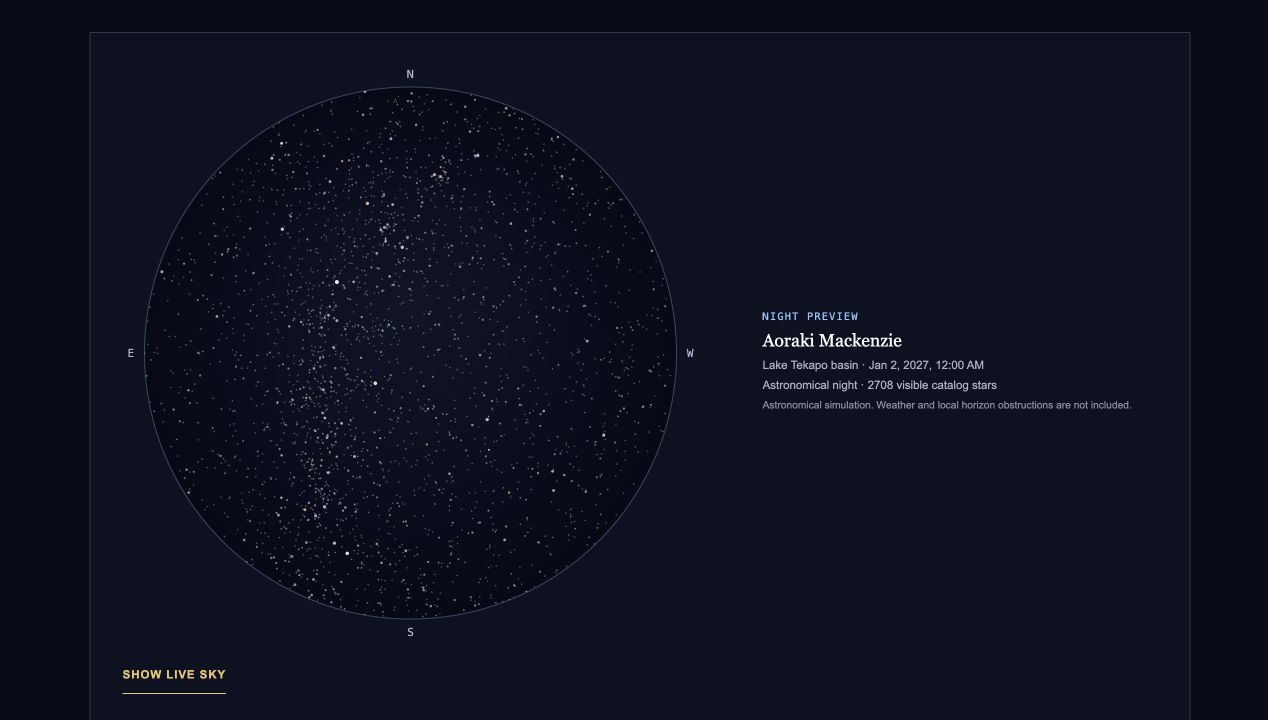
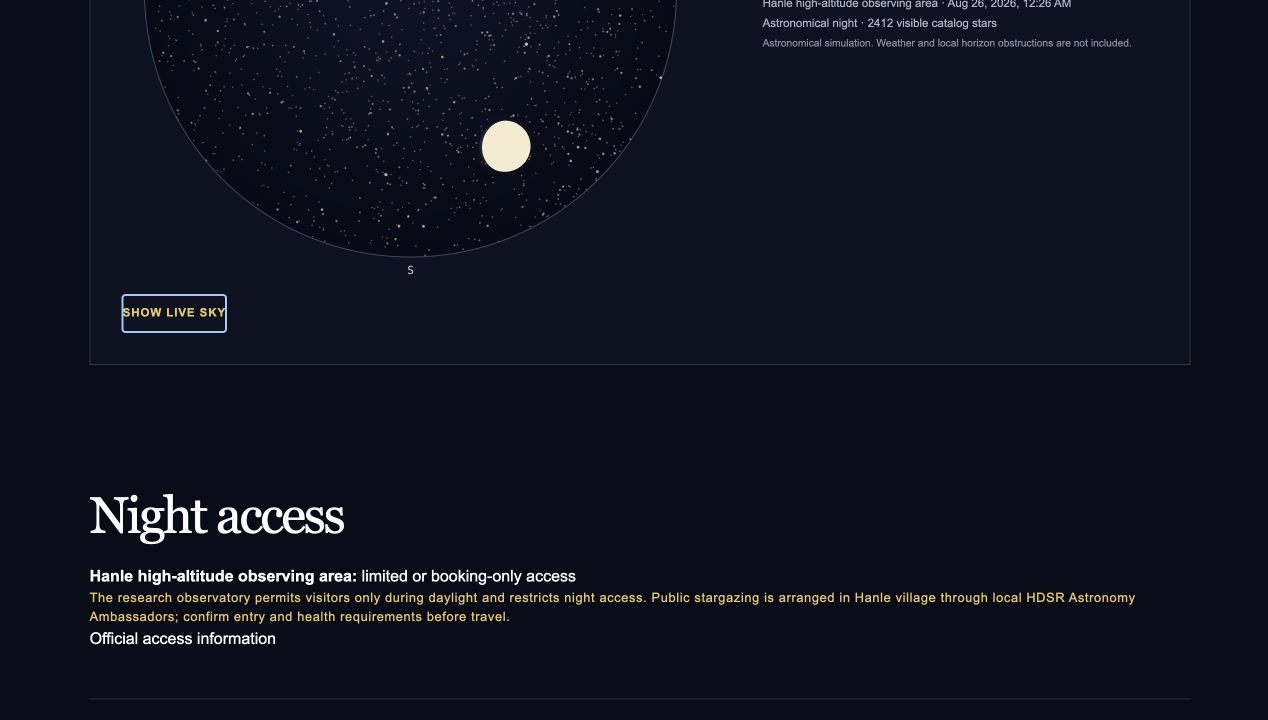
fix: keep sky visible and preview the next night

diff --git a/components/sky/destination-sky-section.tsx b/components/sky/destination-sky-section.tsx
@@ -3,6 +3,7 @@
 import { useEffect, useState } from "react";
 
 import { AstronomicalSky } from "./astronomical-sky";
+import { findNextAstronomicalNight } from "@/lib/astronomy/next-night";
 import { roundedCurrentMinuteIso } from "@/lib/astronomy/selection";
 import { resolveDestinationPreview } from "@/lib/astronomy/previews";
 import type { NightPreview, SkyLocation } from "@/lib/astronomy/types";
@@ -12,6 +13,7 @@ import type { Locale } from "@/lib/i18n/config";
 export function DestinationSkySection({ location, previews, locale }: { location: SkyLocation; previews: NightPreview[]; locale: Locale }) {
   const [ready, setReady] = useState(false);
   const [preview, setPreview] = useState<NightPreview | null>(null);
+  const [nextNightInstant, setNextNightInstant] = useState<string | null>(null);
   const [liveInstant, setLiveInstant] = useState(roundedCurrentMinuteIso(0));
   useEffect(() => {
     const search = new URLSearchParams(window.location.search);
@@ -20,7 +22,7 @@ export function DestinationSkySection({ location, previews, locale }: { location
     setReady(true);
   }, [location, previews]);
   useEffect(() => {
-    if (!ready || !shouldScheduleSkyRefresh(preview ? "night-preview" : "live-night")) return;
+    if (!ready || !shouldScheduleSkyRefresh(preview || nextNightInstant ? "night-preview" : "live-night")) return;
     const refresh = () => setLiveInstant(roundedCurrentMinuteIso());
     const delay = 60_000 - (Date.now() % 60_000) + 25;
     let interval: ReturnType<typeof setInterval> | null = null;
@@ -28,19 +30,23 @@ export function DestinationSkySection({ location, previews, locale }: { location
     const visibility = () => { if (document.visibilityState === "visible") refresh(); };
     document.addEventListener("visibilitychange", visibility);
     return () => { clearTimeout(timeout); if (interval) clearInterval(interval); document.removeEventListener("visibilitychange", visibility); };
-  }, [preview, ready]);
+  }, [nextNightInstant, preview, ready]);
   if (!ready) return <div className="sky-loading" role="status">{locale === "de" ? "Astronomischer Himmel wird berechnet …" : "Calculating astronomical sky …"}</div>;
-  const showPreview = (next: NightPreview) => {
-    const url = new URL(window.location.href); url.searchParams.set("skyPreview", next.id); url.hash = "night-sky"; window.history.replaceState(null, "", url); setPreview(next);
-  };
   const showLive = () => {
-    const url = new URL(window.location.href); url.searchParams.delete("skyPreview"); url.hash = "night-sky"; window.history.replaceState(null, "", url); setLiveInstant(roundedCurrentMinuteIso()); setPreview(null);
+    const url = new URL(window.location.href); url.searchParams.delete("skyPreview"); url.hash = "night-sky"; window.history.replaceState(null, "", url); setLiveInstant(roundedCurrentMinuteIso()); setPreview(null); setNextNightInstant(null);
   };
+  const showNextNight = () => {
+    const nowIso = roundedCurrentMinuteIso();
+    const nextNight = findNextAstronomicalNight(location, nowIso);
+    const url = new URL(window.location.href); url.searchParams.delete("skyPreview"); url.hash = "night-sky"; window.history.replaceState(null, "", url);
+    setLiveInstant(nowIso); setPreview(null); setNextNightInstant(nextNight?.instantIso ?? previews[0]?.instantIso ?? null);
+  };
+  const previewInstant = nextNightInstant ?? preview?.instantIso ?? null;
   return <div className="destination-sky-shell">
-    <AstronomicalSky location={location} instantIso={preview?.instantIso ?? liveInstant} mode={preview ? "night-preview" : "live-night"} locale={locale} variant="destination" />
+    <AstronomicalSky location={location} instantIso={previewInstant ?? liveInstant} mode={previewInstant ? "night-preview" : "live-night"} locale={locale} variant="destination" />
     <div className="sky-actions">
-      {preview ? <button type="button" onClick={showLive}>{locale === "de" ? "Zum Live-Himmel" : "Show live sky"}</button>
-        : previews[0] && <button type="button" onClick={() => showPreview(previews[0])}>{locale === "de" ? "Nachtvorschau anzeigen" : "Show night preview"}</button>}
+      {previewInstant ? <button type="button" onClick={showLive}>{locale === "de" ? "Zum Live-Himmel" : "Show live sky"}</button>
+        : <button type="button" onClick={showNextNight}>{locale === "de" ? "Nächste Nacht anzeigen" : "Show next night"}</button>}
     </div>
   </div>;
 }

diff --git a/tests/astronomy-sky.test.ts b/tests/astronomy-sky.test.ts
@@ -2,8 +2,9 @@ import assert from "node:assert/strict";
 import { readFileSync } from "node:fs";
 import test from "node:test";
 
-import { computeSky } from "../lib/astronomy/compute-sky.js";
+import { computeSky, computeSunHorizontal } from "../lib/astronomy/compute-sky.js";
 import { brightStarCatalogMetadata, brightStars } from "../lib/astronomy/catalog.js";
+import { findNextAstronomicalNight } from "../lib/astronomy/next-night.js";
 import { classifySkyCondition, getEffectiveLimitingMagnitude } from "../lib/astronomy/visibility.js";
 import { formatSkyLocalTime, shouldScheduleSkyRefresh } from "../lib/astronomy/time.js";
 import type { SkyLocation } from "../lib/astronomy/types.js";
@@ -73,4 +74,17 @@ test("local labels use destination timezone, including DST, and fixed previews d
   assert.equal(shouldScheduleSkyRefresh("live-night"), true);
   assert.equal(shouldScheduleSkyRefresh("night-preview"), false);
   assert.throws(() => formatSkyLocalTime("en", "Invalid/Timezone", "2027-01-01T00:00:00.000Z"));
+});
+
+test("next-night preview stays near the current date and selects astronomical darkness", () => {
+  const fromIso = "2026-08-25T16:50:00.000Z";
+  const nextNight = findNextAstronomicalNight(westhavelland, fromIso);
+  assert.ok(nextNight);
+  assert.ok(Date.parse(nextNight.instantIso) > Date.parse(fromIso));
+  assert.ok(Date.parse(nextNight.instantIso) - Date.parse(fromIso) < 36 * 60 * 60 * 1000);
+  assert.ok(computeSunHorizontal(westhavelland, nextNight.instantIso).altitudeDeg <= -18);
+});
+
+test("next-night preview rejects an invalid starting instant", () => {
+  assert.throws(() => findNextAstronomicalNight(westhavelland, "not-an-instant"), /Invalid preview start instant/);
 });

diff --git a/lib/astronomy/next-night.ts b/lib/astronomy/next-night.ts
@@ -1,0 +1,25 @@
+import { computeSunHorizontal } from "./compute-sky";
+import type { SkyLocation } from "./types";
+
+const astronomicalNightAltitudeDeg = -18;
+const stepMs = 30 * 60 * 1000;
+const searchWindowMs = 370 * 24 * 60 * 60 * 1000;
+
+export function findNextAstronomicalNight(location: SkyLocation, fromIso: string) {
+  const fromMs = Date.parse(fromIso);
+  if (!Number.isFinite(fromMs)) throw new Error(`Invalid preview start instant: ${fromIso}`);
+
+  let best: { instantIso: string; sunAltitudeDeg: number } | null = null;
+  let foundNight = false;
+  for (let offsetMs = stepMs; offsetMs <= searchWindowMs; offsetMs += stepMs) {
+    const instantIso = new Date(fromMs + offsetMs).toISOString();
+    const sunAltitudeDeg = computeSunHorizontal(location, instantIso).altitudeDeg;
+    if (sunAltitudeDeg <= astronomicalNightAltitudeDeg) {
+      foundNight = true;
+      if (!best || sunAltitudeDeg < best.sunAltitudeDeg) best = { instantIso, sunAltitudeDeg };
+      continue;
+    }
+    if (foundNight) return best;
+  }
+  return best;
+}

diff --git a/app/globals.css b/app/globals.css
@@ -590,8 +590,8 @@ h1 span {
 .orbit {
   position: absolute;
   top: 7.5rem;
-  right: clamp(-7rem, -4vw, -2rem);
-  width: 30rem;
+  right: clamp(1.5rem, 4vw, 4rem);
+  width: min(28rem, 31vw);
   z-index: 2;
 }
 

diff --git a/docs/astronomical-sky.md b/docs/astronomical-sky.md
@@ -54,9 +54,12 @@ or temporary light sources. UI copy states this limitation in English and German
 
 The server components load committed candidates and previews. Client components
 select a homepage location after hydration, compute the current minute, draw one
-Canvas, and update once per minute. Fixed previews have no timer. Destination
-query strings are parsed after mount and validated against that destination and
-its deterministic primary site.
+Canvas, and update once per minute. On destination pages, **Show next night**
+selects the darkest half-hour sample in the immediately upcoming astronomical
+night; the committed fixed preview remains a reproducible fallback and supports
+existing deep links. Preview modes have no timer. Destination query strings are
+parsed after mount and validated against that destination and its deterministic
+primary site.
 
 ## Homepage candidate contract
 
@@ -121,12 +124,14 @@ Measured locally on 2026-08-25 after a production static export:
   ratio capped to 2.
 - The Moon is rasterized at 256 px, then downsampled with high-quality Canvas
   smoothing; its glow is rendered separately so the lunar limb remains crisp.
-- Browser QA covered live navigation, fixed preview navigation, return to live,
-  invalid cross-destination preview rejection, English/German labels, named
-  months, and a daylight snapshot with zero visible catalog stars.
+- Upcoming-night selection produced a valid astronomical night for all 50
+  destinations in 43.26 ms total during the fixed-date verification run.
+- Browser QA covered live navigation, upcoming and fixed preview navigation,
+  return to live, invalid cross-destination preview rejection, English/German
+  labels, named months, and a daylight snapshot with zero visible catalog stars.
 
 QA captures:
 
 - [Homepage live sky](qa/astronomical-sky-homepage.png)
 - [Destination live sky with high-resolution Moon](qa/astronomical-sky-destination-live.png)
-- [Destination fixed night preview](qa/astronomical-sky-destination-preview.png)
+- [Destination upcoming-night preview](qa/astronomical-sky-destination-preview.png)
